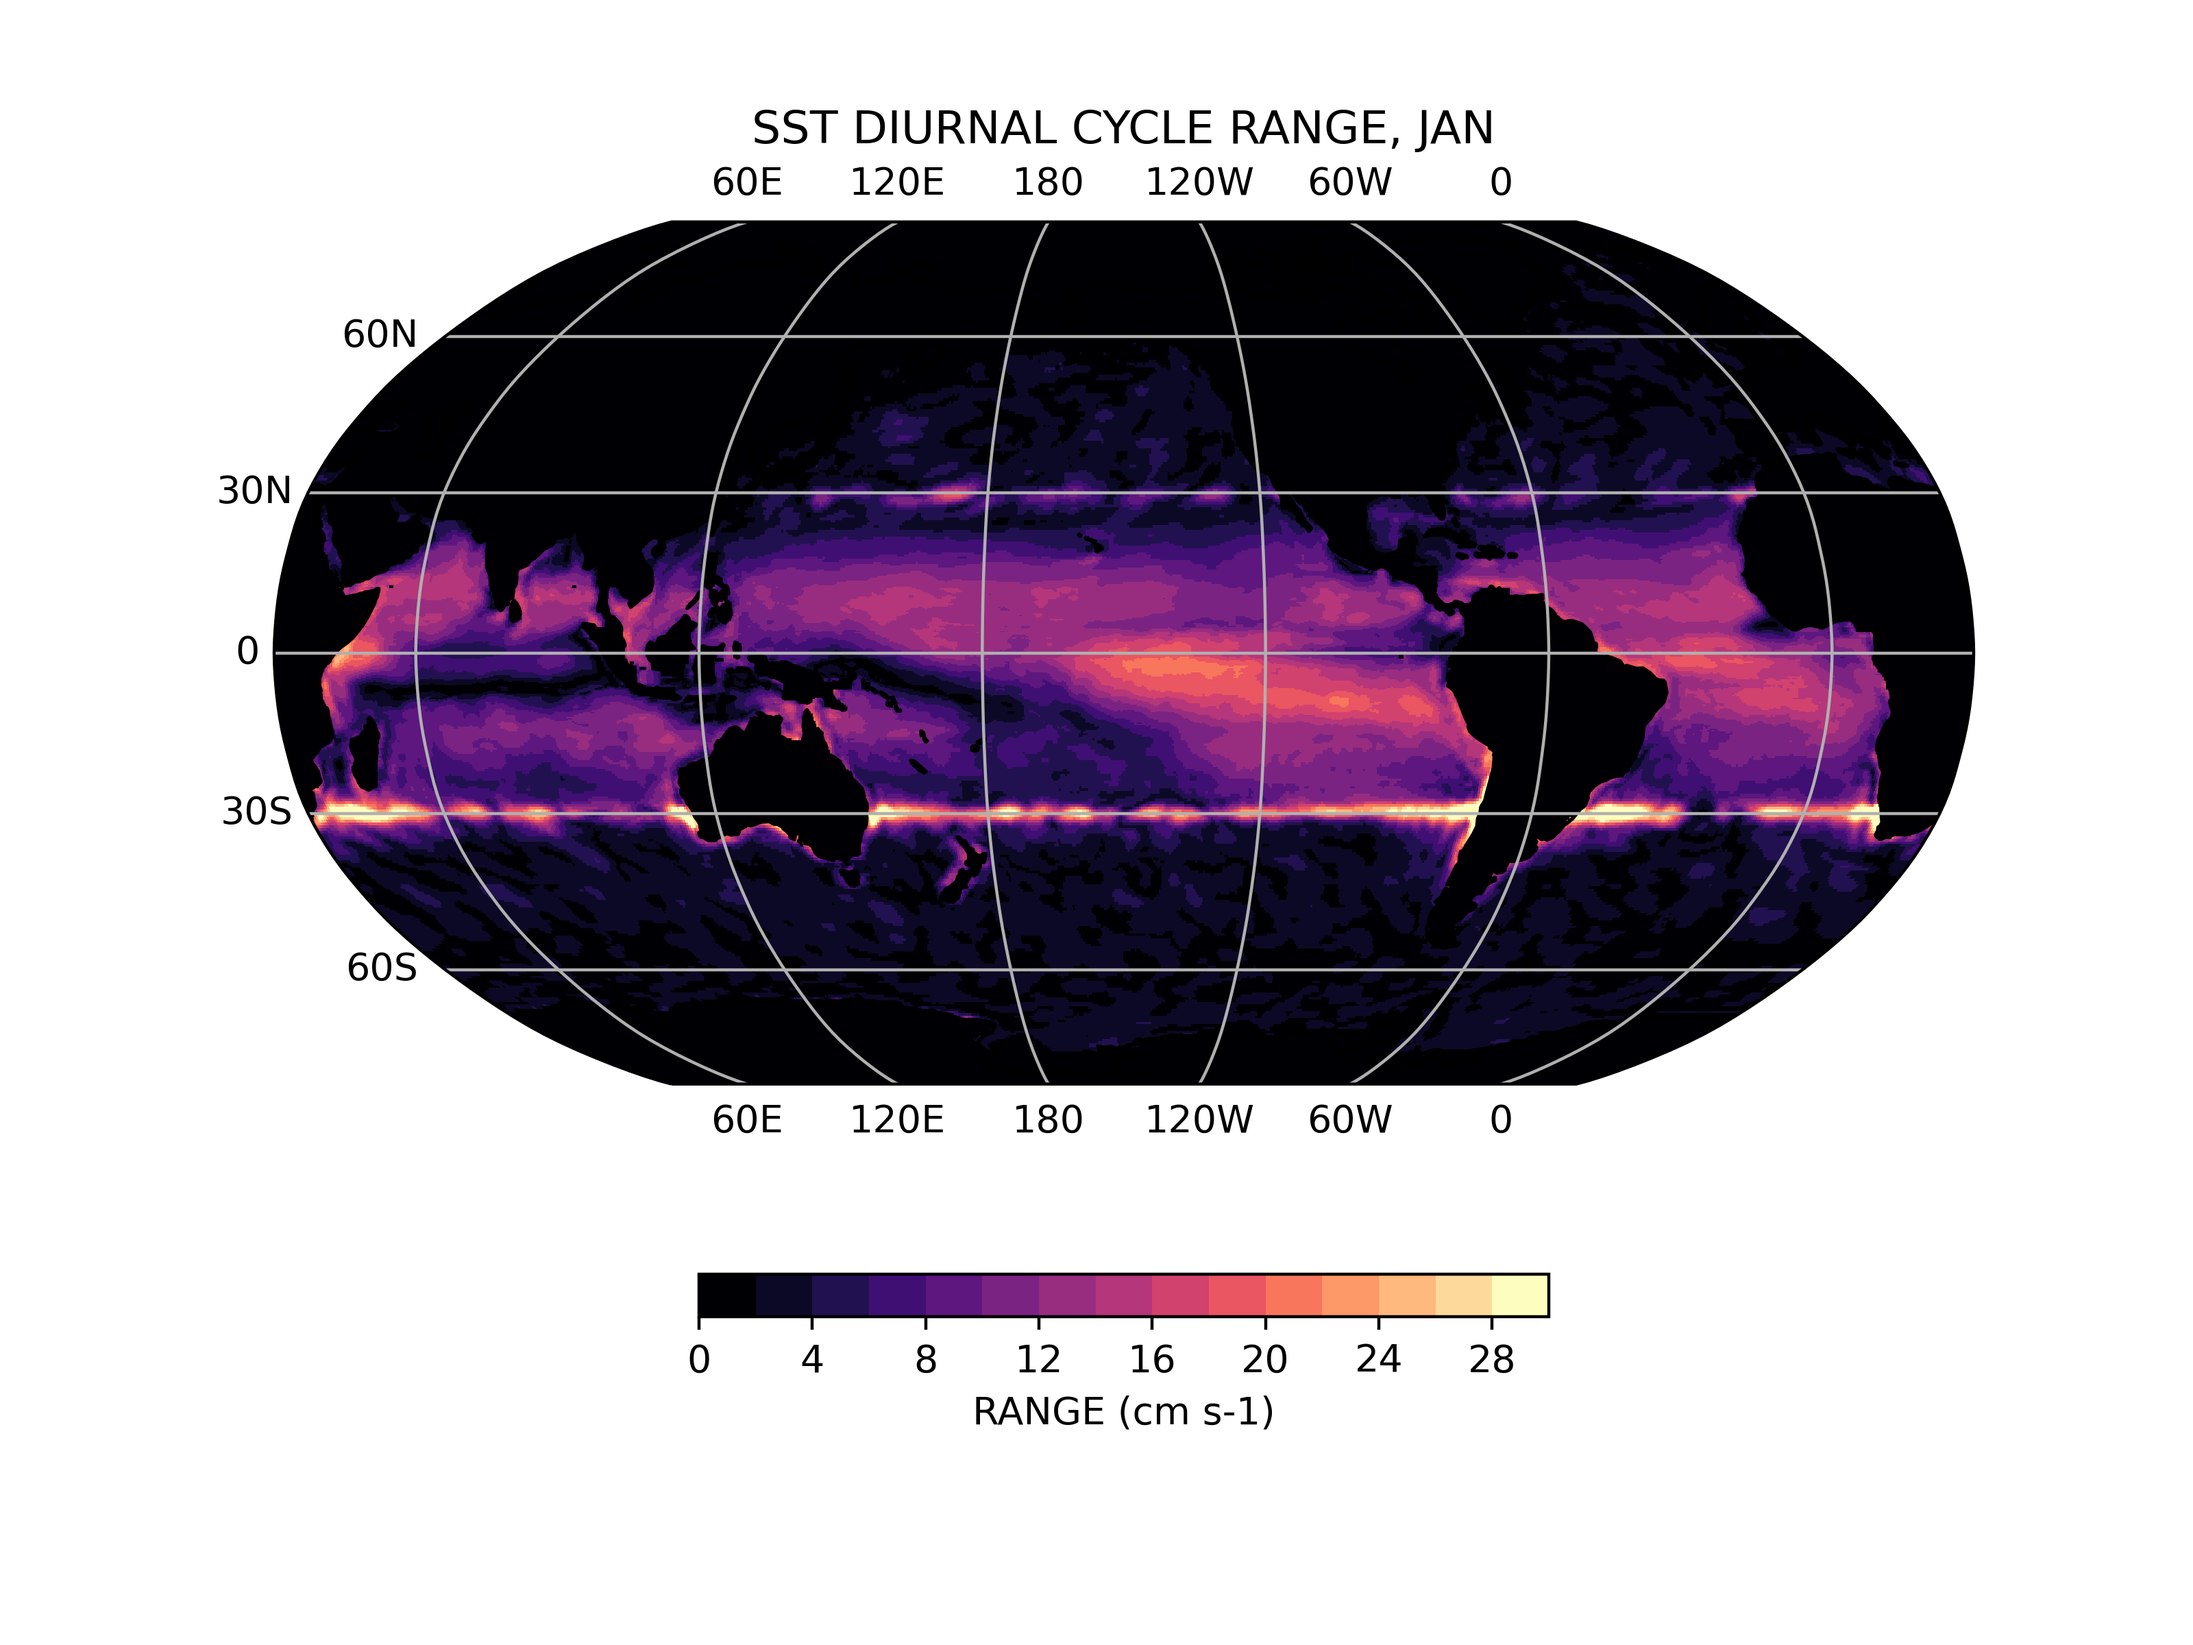
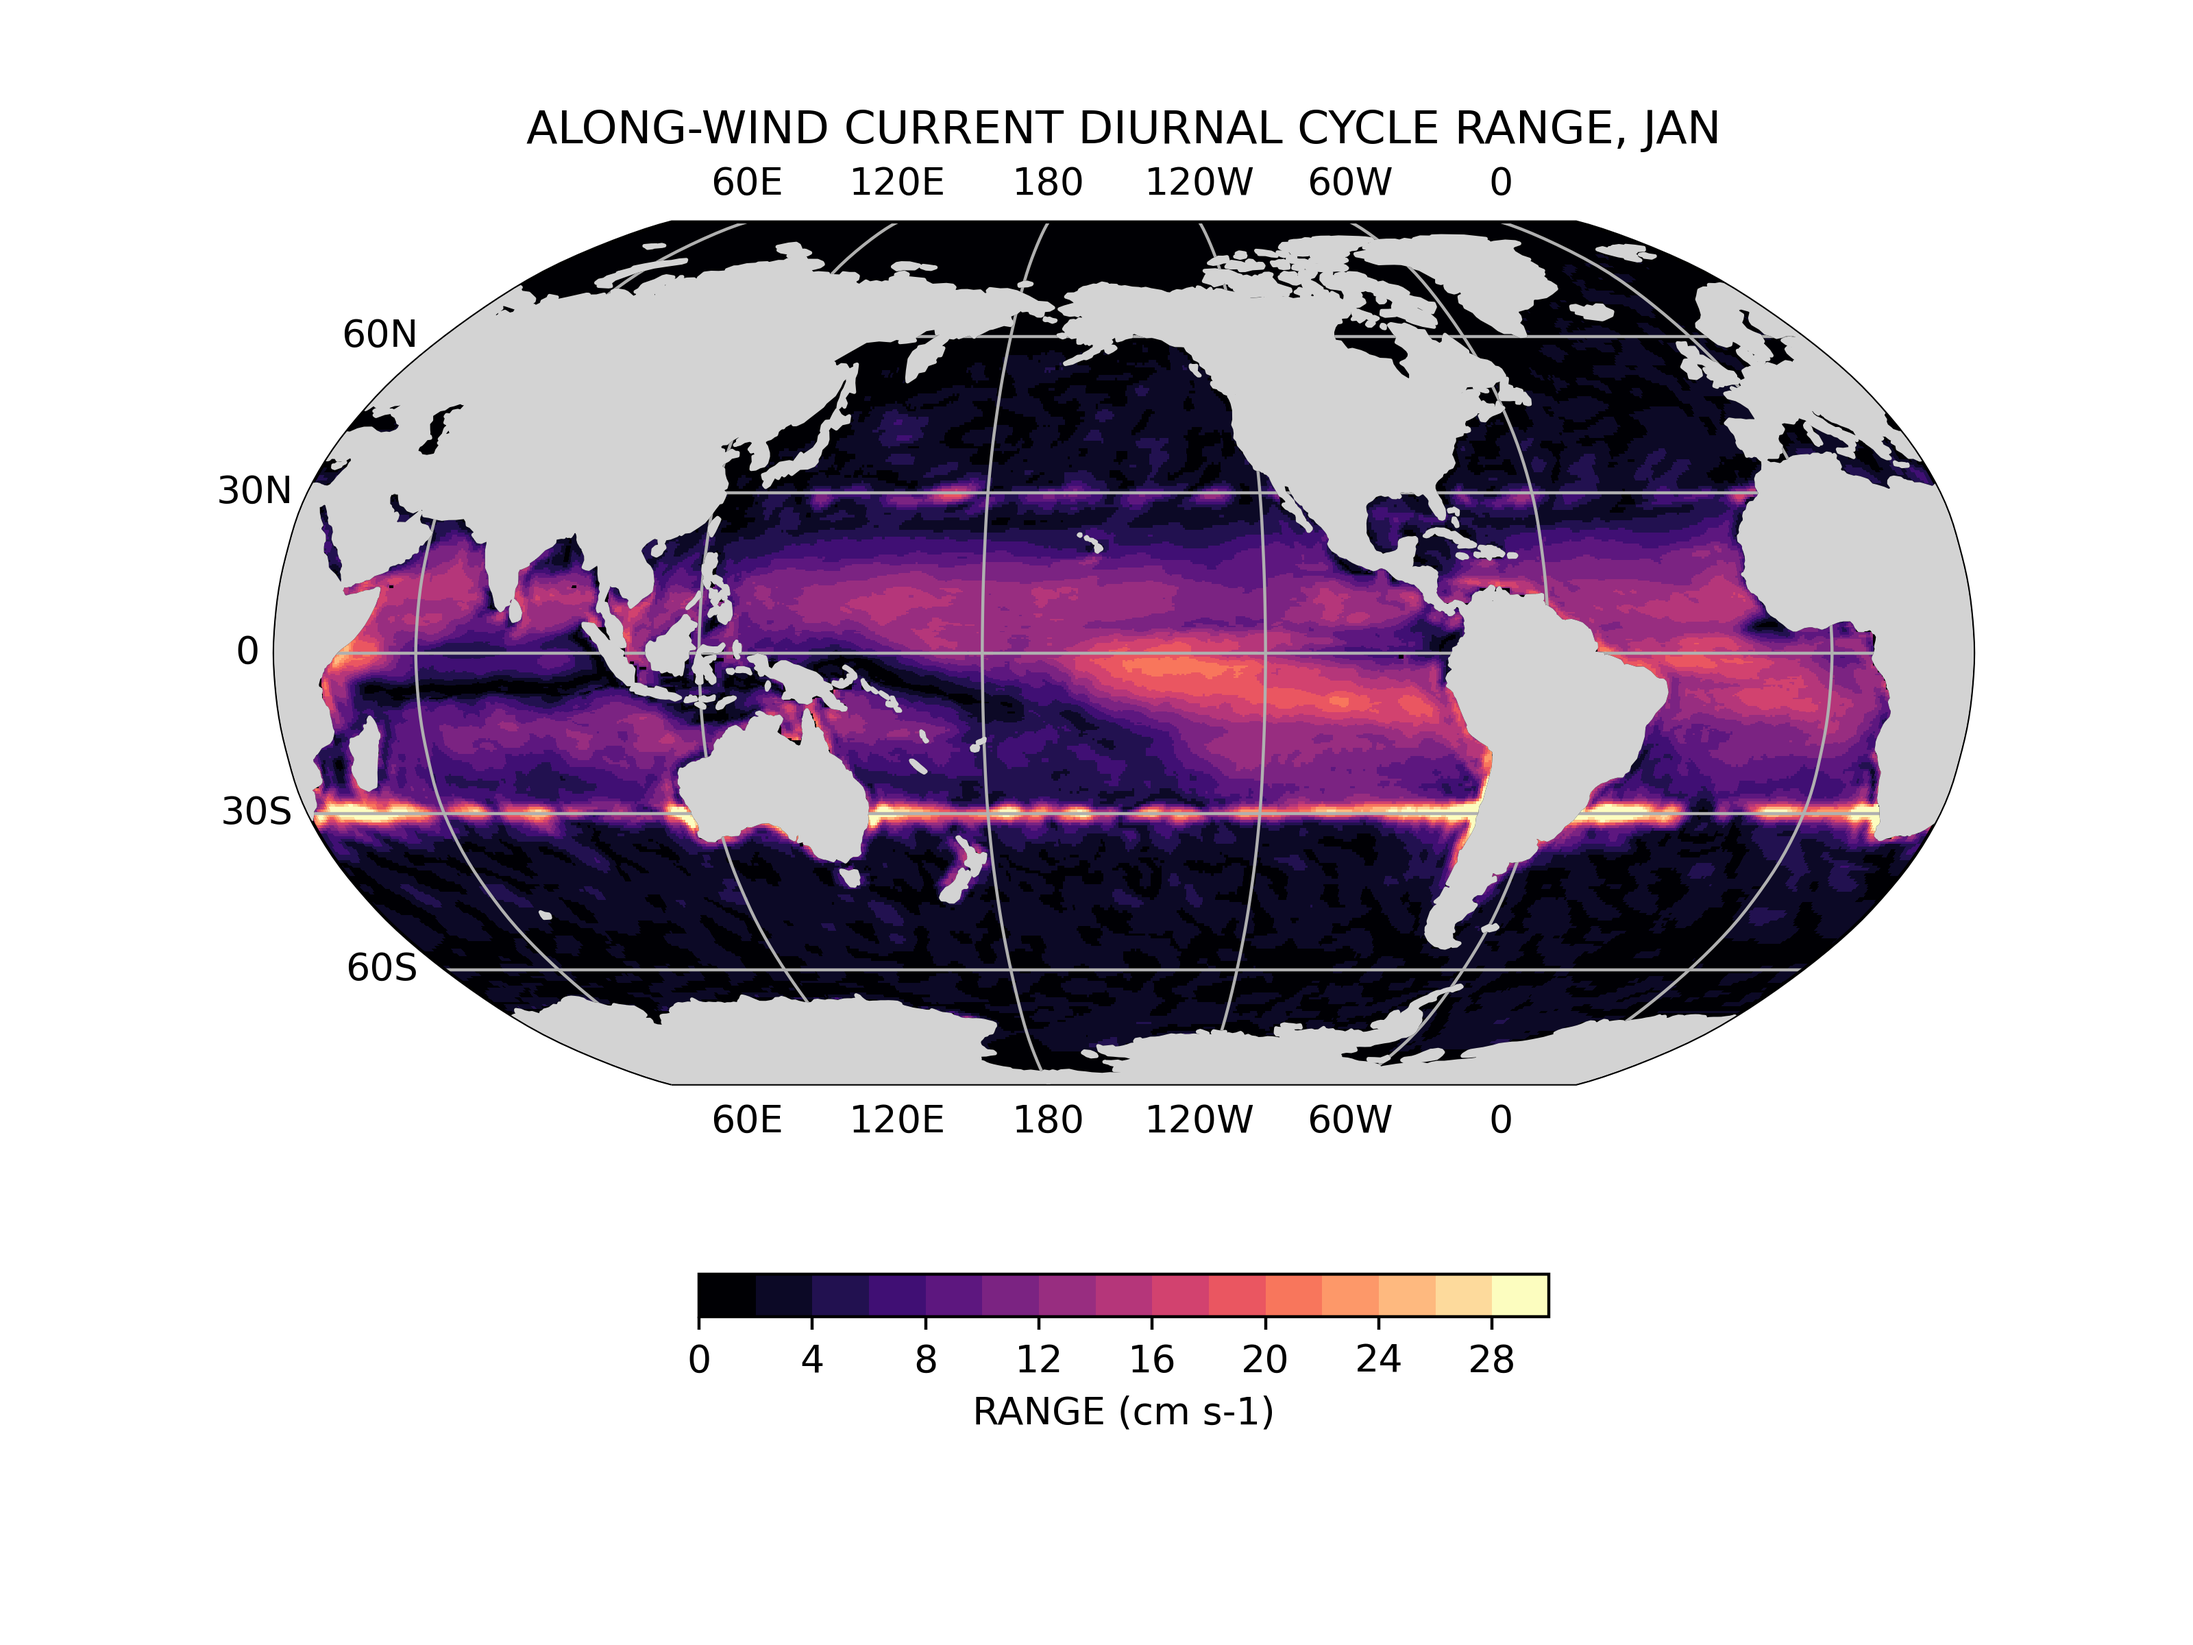
Updates maps.

diff --git a/diurnal_cycle/analysis/diurnal_range_maps.py b/diurnal_cycle/analysis/diurnal_range_maps.py
@@ -210,8 +210,8 @@ def plot_one_map(ds, ptype, pvar, mon):
     gl.xformatter = LongitudeFormatter(zero_direction_label=False,
                                        degree_symbol='')
     gl.yformatter = LatitudeFormatter(degree_symbol='')
-    ax.coastlines()
-    ax.add_feature(cfeature.LAND, facecolor='lightgray')
+    ax.coastlines(zorder=3)
+    ax.add_feature(cfeature.LAND, facecolor='lightgray', zorder=4)
     
     # Define color map.
     cmap_b = plt.get_cmap(plot_dets(pvar, 'cmap', ptype))
@@ -351,7 +351,7 @@ def plot_dets(vn, att, pty=None):
             'mask_lim':2.0,
             'latname':'geolat_c',
             'lonname':'geolon_c',
-            'plotname':'SST',
+            'plotname':'ALONG-WIND CURRENT',
             'minRANGE':0.0,
             'maxRANGE':30.0,
             'stepRANGE':2.0,
